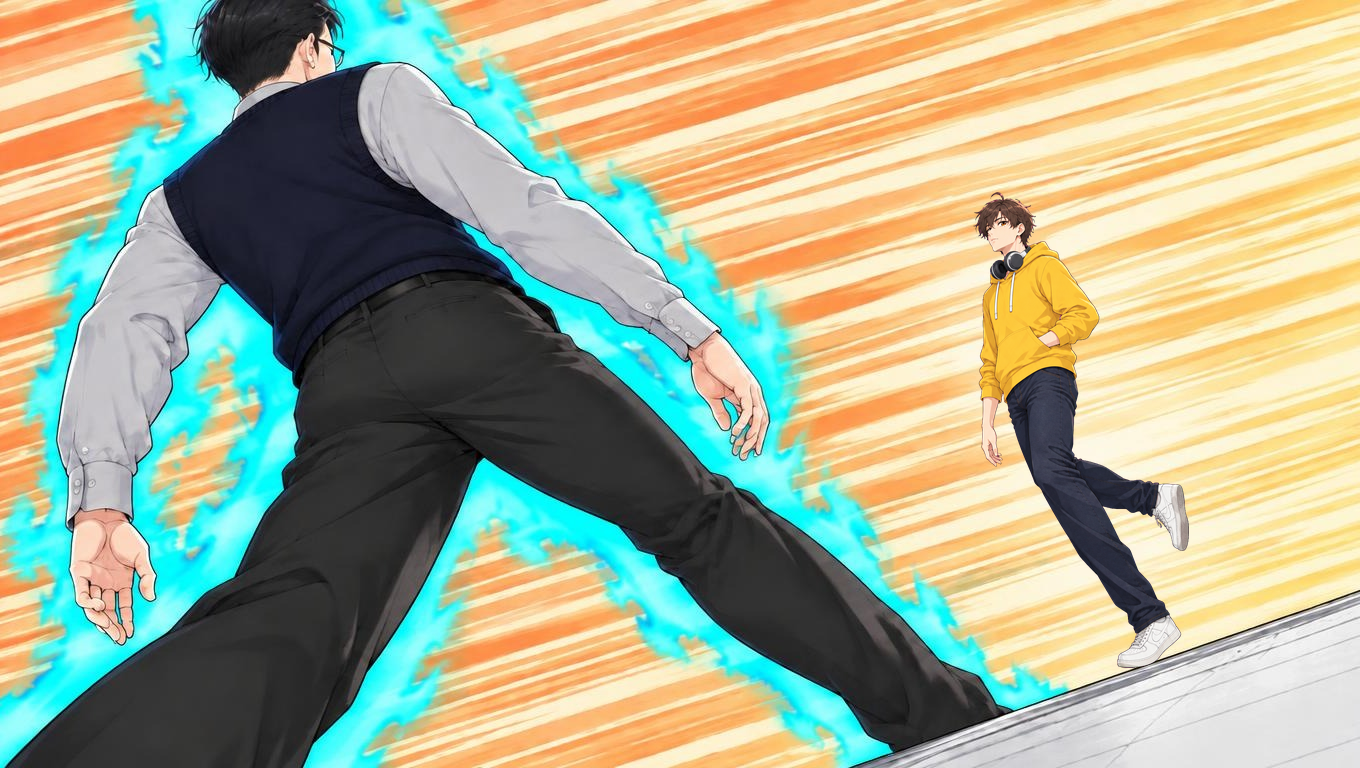
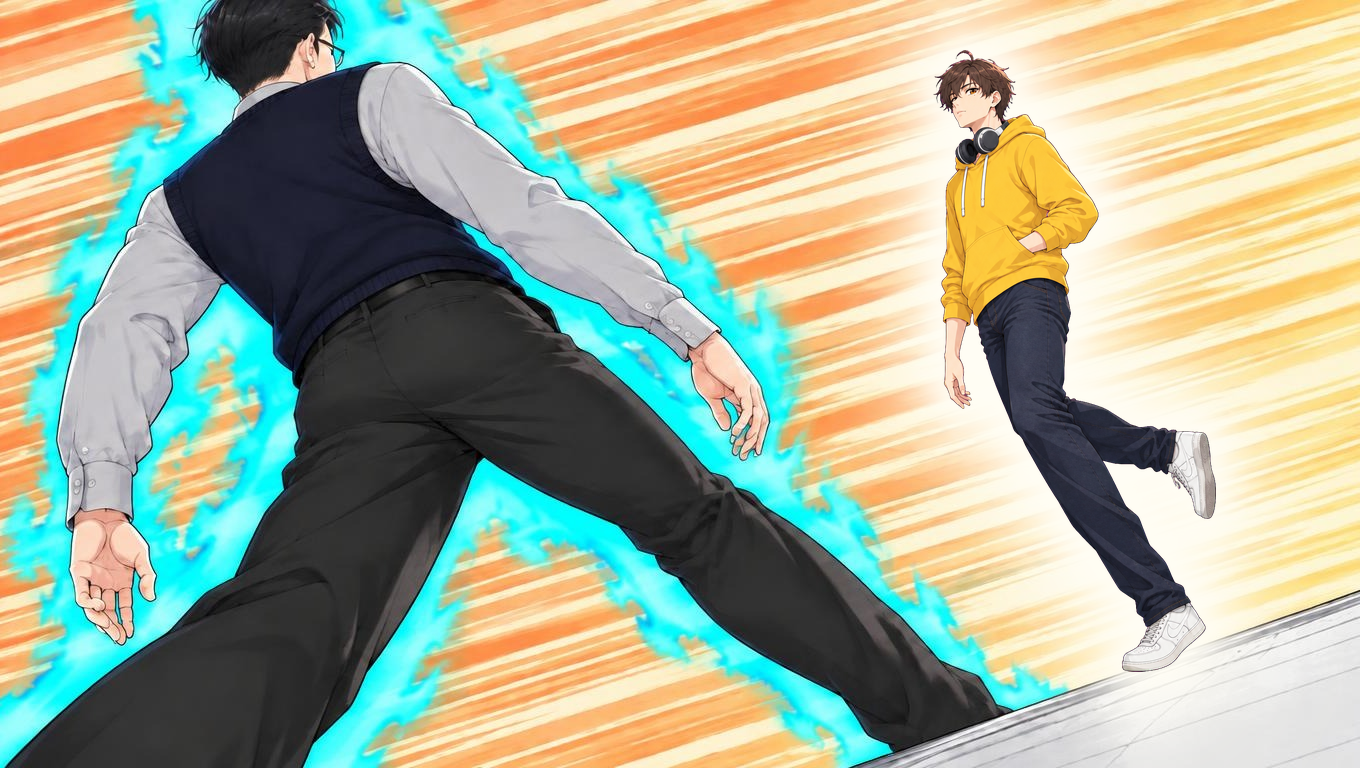
cg-hop-doi-dau: nhân vật chính to hơn 30%, thêm quầng sáng trắng quanh người

Changed region(s): [[0.6176, 0.0, 0.9574, 0.9375]]

diff --git a/art/nguon/ghep-cg-hop-doi-dau-2026-10-02.py b/art/nguon/ghep-cg-hop-doi-dau-2026-10-02.py
@@ -49,11 +49,29 @@ def hao_quang(lop: Image.Image, cao: int, x_giua: float, y_dinh: float) -> Image
     return ra
 
 
+def quang_trang(lop: Image.Image, cao: int, x_giua: float, y_dinh: float) -> Image.Image:
+    """Quầng sáng trắng quanh người: bóng của người nở rộng, làm nhòe mạnh, tô trắng ngà."""
+    k = cao / lop.height
+    nho = lop.resize((round(lop.width * k), cao), Image.LANCZOS)
+    khung = Image.new('L', (W, H), 0)
+    khung.paste(nho.getchannel('A'), (round(W * x_giua - nho.width / 2), round(H * y_dinh)))
+    ra = Image.new('RGBA', (W, H), (0, 0, 0, 0))
+    for ban_kinh, do in ((95, 150), (55, 215), (22, 245)):
+        m = khung.filter(ImageFilter.MaxFilter(ban_kinh | 1)).filter(ImageFilter.GaussianBlur(ban_kinh * 0.6))
+        ra.alpha_composite(Image.merge('RGBA', (*[Image.new('L', (W, H), c) for c in (255, 253, 244)], m.point(lambda x: x * do // 255))))
+    return ra
+
+
 def main(ten_nvc: str) -> None:
     """Bản user chốt 02/10 tối: nền + Quân + hào quang lấy nguyên từ ảnh user tự sửa trên Topview (đã xóa nhân vật chính cũ,
     lớp g2-jj-nen-quan), chỉ dán nhân vật chính mới (dáng Jotaro) vào, chân chạm mép sàn."""
     nen = Image.open(J / 'g2-jj-nen-quan.png').convert('RGBA').resize((W, H), Image.LANCZOS)
-    dat(nen, nguoi(ten_nvc), cao=round(H * 0.62), x_giua=0.795, y_dinh=0.25)
+    nvc = nguoi(ten_nvc)
+    # User 02/10: nhân vật chính to hơn ~30% (0,62 → 0,81 chiều cao khung), chân trụ vẫn chạm mép sàn; quanh người xóa bớt
+    # vạch tốc độ thành quầng sáng trắng như khung truyện gốc.
+    v = dict(cao=round(H * 0.81), x_giua=0.79, y_dinh=0.065)
+    nen.alpha_composite(quang_trang(nvc, **v))
+    dat(nen, nvc, **v)
     ra = GOC / 'art/nguon/topview-2026-10-01/g2/g2-cg-hop-doi-dau.png'
     nen.convert('RGB').save(ra, optimize=True)
     print(ra)
